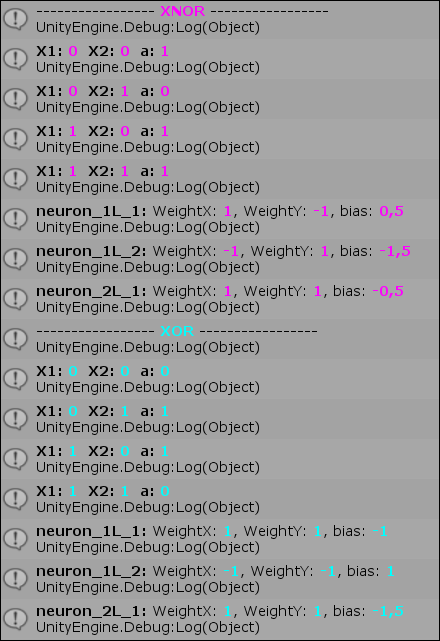
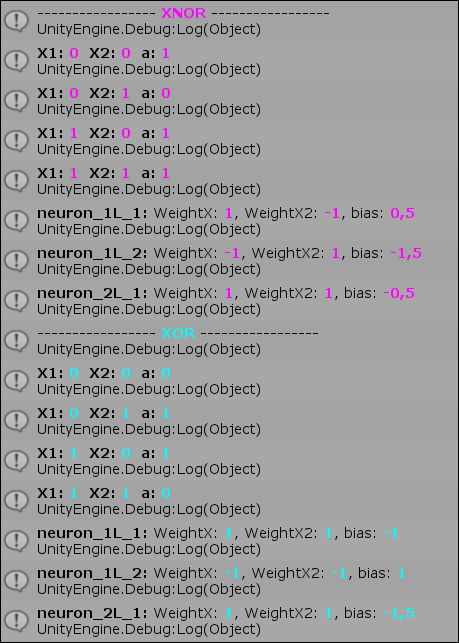
DS || Lab7 fix

diff --git a/Lab7/Scripts/SimpleNeuron.cs b/Lab7/Scripts/SimpleNeuron.cs
@@ -48,6 +48,6 @@ public class SimpleNeuron : MonoBehaviour
 
     public string _ToString(string color)
     {
-        return $"WeightX: <color={color}><b>{weightX}</b></color>, WeightY: <color={color}><b>{weightY}</b></color>, bias: <color={color}><b>{bias}</b></color>";
+        return $"WeightX: <color={color}><b>{weightX}</b></color>, WeightX2: <color={color}><b>{weightY}</b></color>, bias: <color={color}><b>{bias}</b></color>";
     }
 }
